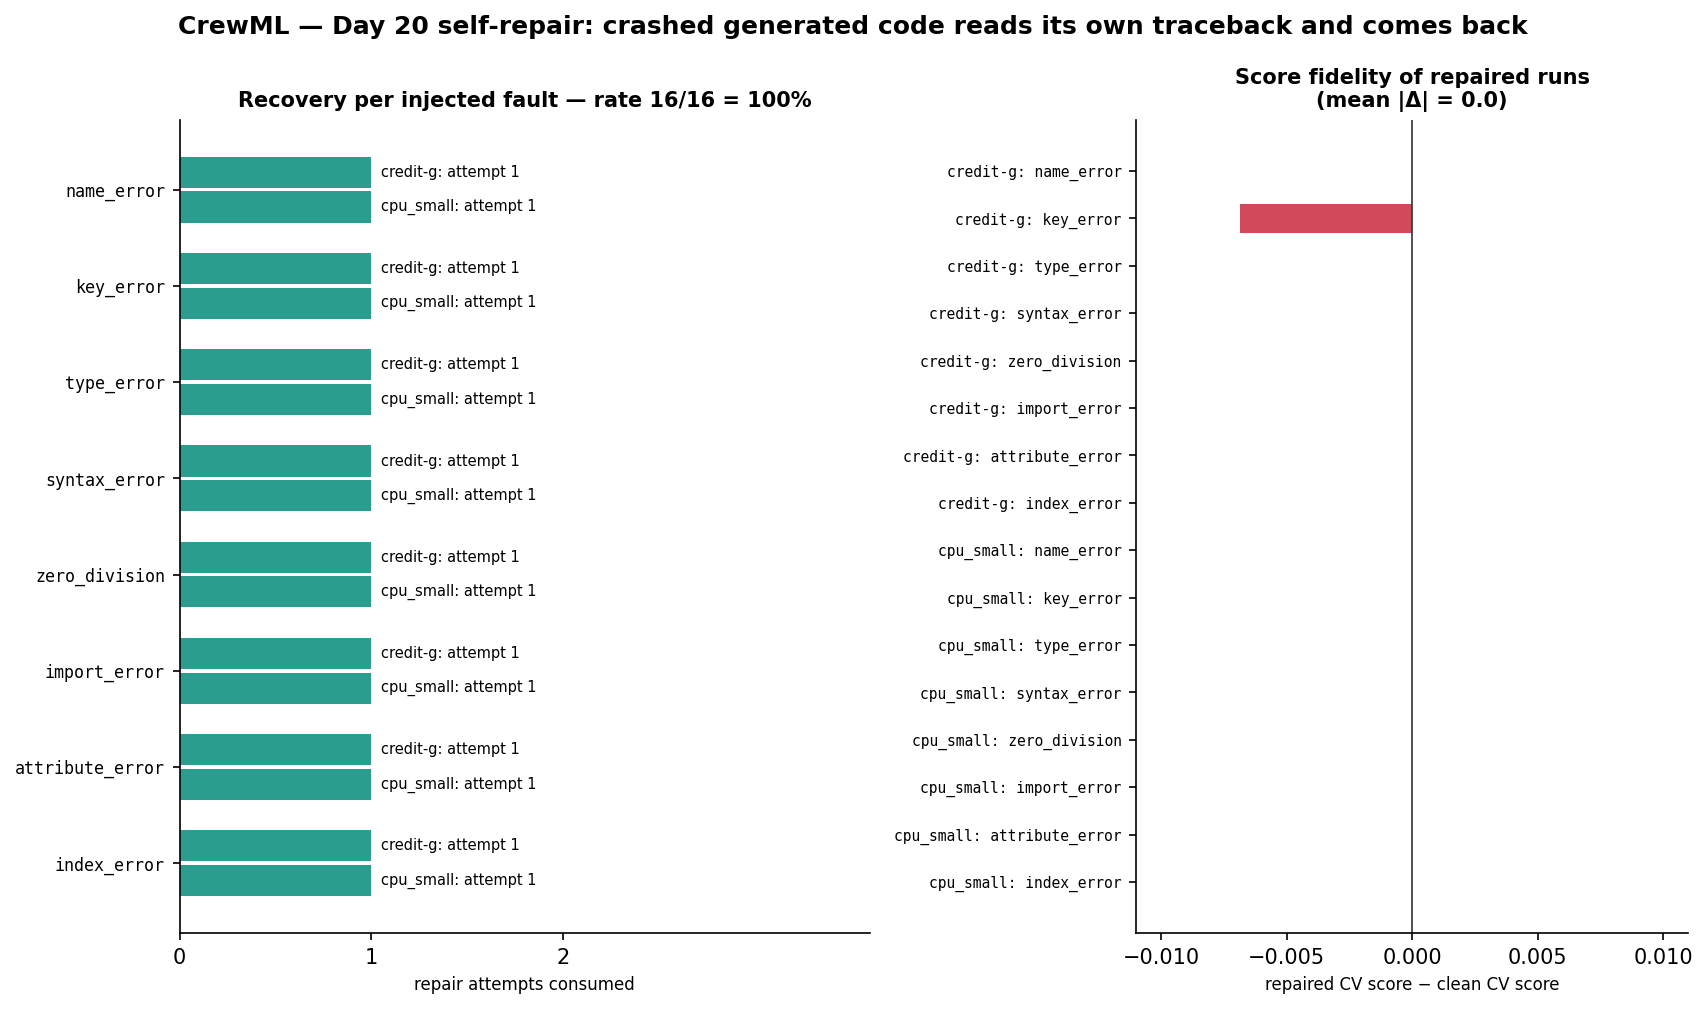
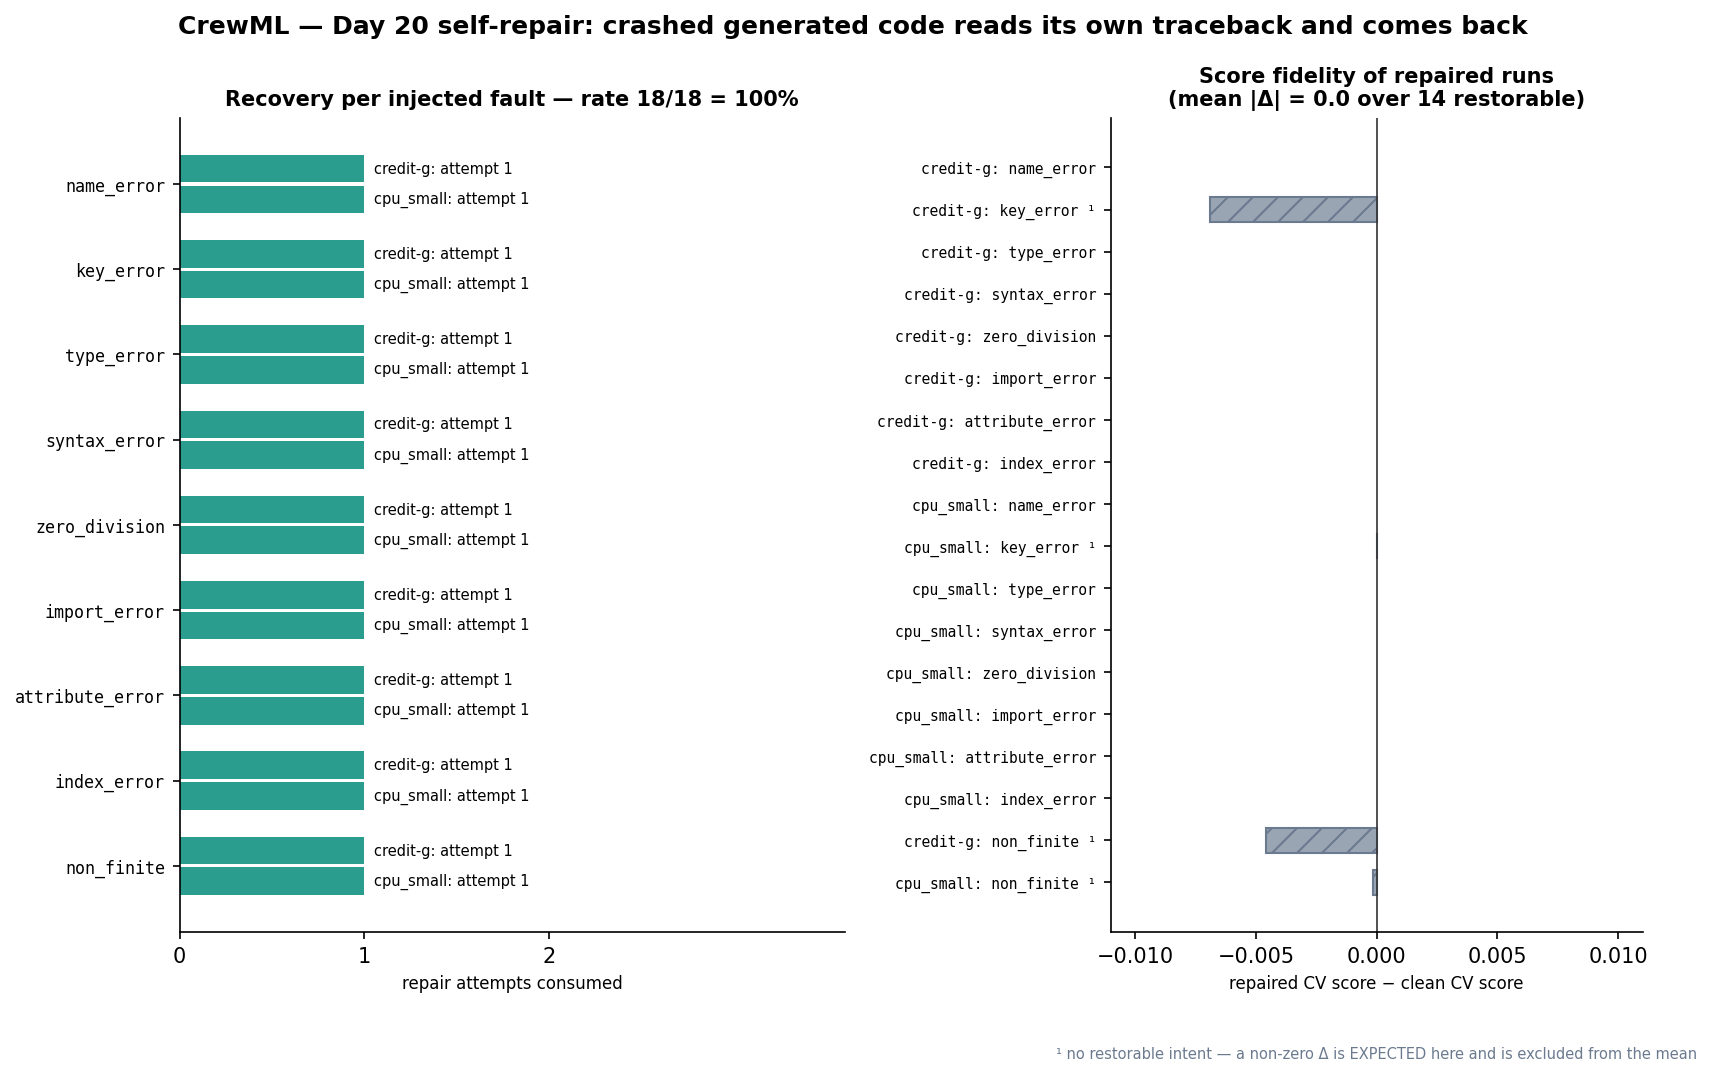
experiment: measure non_finite live — 18/18 recovered across all 9 fault families (Day 20 Phase 4)
The last open number on Day 20 is now measured. `non_finite` — the crew's only
real production crash family (generated FE code building an unguarded ratio,
emitting +/-inf, passing FE validation, then killing training at sklearn's finite
assertion) — recovers on BOTH datasets on attempt 1: credit-g CV 0.7895
(delta -0.0046) and cpu_small R2 0.9772 (delta -0.0001). Both deltas are non-zero
and correctly so: non_finite has no restorable intent, since guarding a division
properly yields a legitimately different feature from the control's default FE.

Headline is now 18/18 injected crashes recovered, every one on the first attempt,
across all nine fault families. 90,415 tokens total, ~5k per repair.

Measured in two passes and merged only after asserting the passes are comparable:
same repairer/provider/model/attempt-budget and bit-identical clean-control scores
(credit-g 0.794048, cpu_small 0.977309). The merge script enforces those checks.

Getting this number took four attempts across two days of token quota, and the
three failures were worth more than the success:
- attempts 1-2 were refused by the 100k/day cap; attempt 2 predated the guard and
  produced a meaningless recovery_rate 0.0 (kept out of results/).
- attempt 3 ran AFTER the guard and correctly reported "not measurable" with a
  PARTIALLY UNMEASURED banner instead of a fabricated 0% — the unmeasured-run
  guard validated on live data rather than only in a unit test.
[…]

diff --git a/crewml/charts.py b/crewml/charts.py
@@ -742,13 +742,24 @@ def plot_self_repair(report: dict, path: Path = SELF_REPAIR_CHART_PATH) -> Path:
     # --- Right: score fidelity of recovered runs vs the clean control -------
     recovered = [r for r in injected if r["recovered"]
                  and r["score_fidelity_vs_clean"] is not None]
-    ys, vals, labels = [], [], []
+    ys, vals, labels, colours, hatches = [], [], [], [], []
     for i, r in enumerate(recovered):
         ys.append(i)
         vals.append(r["score_fidelity_vs_clean"])
-        labels.append(f"{r['dataset']}: {r['fault']}")
-    ax_fid.barh(ys, vals, height=0.6,
-                color=[WIN_COLOUR if v >= 0 else LOSS_COLOUR for v in vals])
+        # A fault with no restorable intent CANNOT reproduce the control's feature
+        # set, so its non-zero delta is expected. Drawing it in the loss colour
+        # alongside a "mean |delta| = 0.0" title would read as a contradiction —
+        # and this figure travels separately from the report that explains it.
+        restorable = r.get("restorable", True)
+        labels.append(f"{r['dataset']}: {r['fault']}" + ("" if restorable else " ¹"))
+        colours.append((WIN_COLOUR if vals[-1] >= 0 else LOSS_COLOUR) if restorable
+                       else "#9aa5b4")
+        hatches.append(None if restorable else "//")
+    bars = ax_fid.barh(ys, vals, height=0.6, color=colours)
+    for bar, hatch in zip(bars, hatches):
+        if hatch:
+            bar.set_hatch(hatch)
+            bar.set_edgecolor("#6b7a8f")
     ax_fid.axvline(0, color="#333", lw=0.8)
     ax_fid.set_yticks(ys)
     ax_fid.set_yticklabels(labels, fontsize=7, family="monospace")
@@ -758,11 +769,25 @@ def plot_self_repair(report: dict, path: Path = SELF_REPAIR_CHART_PATH) -> Path:
     span = max(max((abs(v) for v in vals), default=0.0), 0.001)
     ax_fid.set_xlim(-span * 1.6, span * 1.6)
     ax_fid.set_xlabel("repaired CV score − clean CV score", fontsize=8)
+    n_scored = report.get("n_fidelity_scored")
+    scope = f" over {n_scored} restorable" if n_scored is not None else ""
+    subtitle = (
+        f"mean |Δ| = {report['mean_abs_score_fidelity']}{scope}"
+        if report.get("mean_abs_score_fidelity") is not None
+        else "no restorable runs scored"
+    )
     ax_fid.set_title(
-        f"Score fidelity of repaired runs\n(mean |Δ| = "
-        f"{report['mean_abs_score_fidelity']})",
+        f"Score fidelity of repaired runs\n({subtitle})",
         fontsize=10, fontweight="bold",
     )
+    if any(not r.get("restorable", True) for r in recovered):
+        ax_fid.text(
+            0.5, -0.14,
+            "¹ no restorable intent — a non-zero Δ is EXPECTED here and is excluded "
+            "from the mean",
+            transform=ax_fid.transAxes, ha="center", va="top", fontsize=7,
+            color="#6b7a8f",
+        )
     ax_fid.spines[["top", "right"]].set_visible(False)
 
     # The honesty label travels with the figure: a chart gets separated from its

diff --git a/results/day20_self_repair.md b/results/day20_self_repair.md
@@ -1,14 +1,12 @@
 # Day 20 — Self-repair recovery study
 
-> **PARTIALLY UNMEASURED.** 2 of 2 injected runs never reached the provider (all repair attempts failed at the llm stage — e.g. a rate limit or outage). Those runs are UNMEASURED, excluded from the recovery-rate denominator, and must not be read as failures to repair.
-
-Repairer: **groq** (llama-3.3-70b-versatile) · attempt budget: 2 · recovery rate: **not measurable** (no injected run reached the provider) · false-positive repairs on clean runs: 0 · FE-artifact malformed: 0 · holdout seal intact: True
+Repairer: **groq** (llama-3.3-70b-versatile) · attempt budget: 2 · recovery rate: **2/2 = 100%** · false-positive repairs on clean runs: 0 · FE-artifact malformed: 0 · holdout seal intact: True
 
 | Dataset | Fault | Recovered | Attempt | CV after | Δ vs clean | Tokens | Wall s |
 |---|---|---|---|---|---|---|---|
-| credit-g | none_control | n/a (control) | — | 0.7940 | — | 0 | 10.6 |
-| credit-g | non_finite | unmeasured (provider) | — | — | — | 0 | 7.3 |
-| cpu_small | none_control | n/a (control) | — | 0.9773 | — | 0 | 17.1 |
-| cpu_small | non_finite | unmeasured (provider) | — | — | — | 0 | 8.7 |
+| credit-g | none_control | n/a (control) | — | 0.7940 | — | 0 | 12.3 |
+| credit-g | non_finite | yes | 1 | 0.7895 | -0.0046 ¹ | 5183 | 21.5 |
+| cpu_small | none_control | n/a (control) | — | 0.9773 | — | 0 | 14.0 |
+| cpu_small | non_finite | yes | 1 | 0.9772 | -0.0001 ¹ | 5112 | 25.4 |
 
 ¹ This fault has **no restorable intent** (it references a column that does not exist, or a ratio that must be guarded differently), so a correct fix cannot reproduce the control's feature set. A non-zero Δ here is EXPECTED and is not evidence of a bad repair. Fidelity statistics are scoped to the restorable faults.
